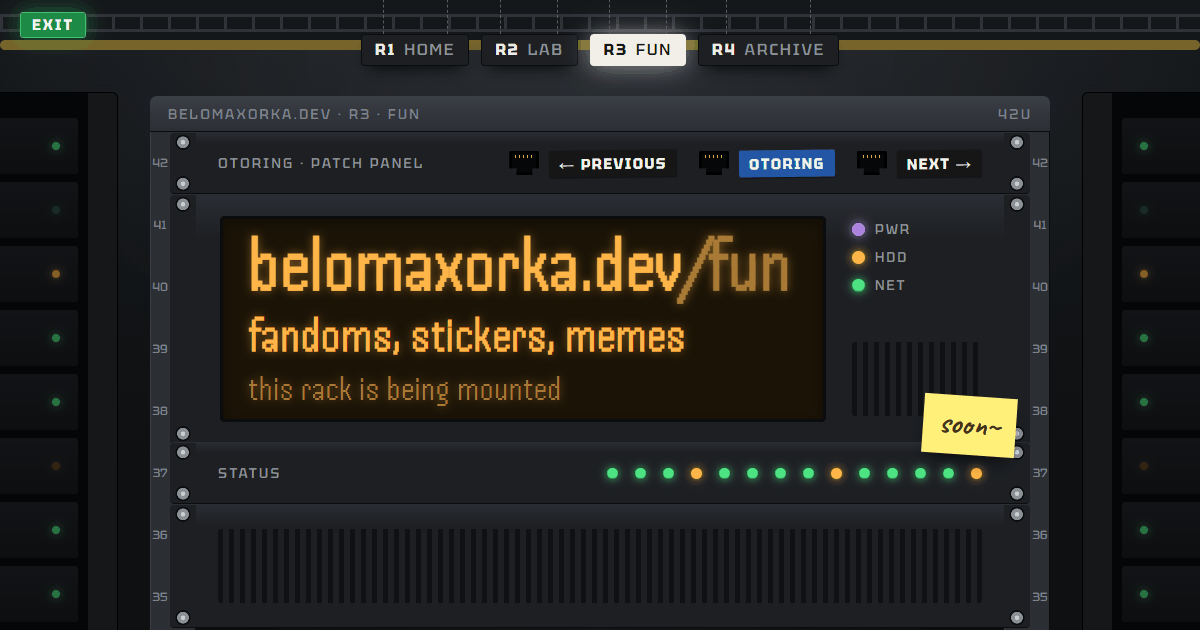
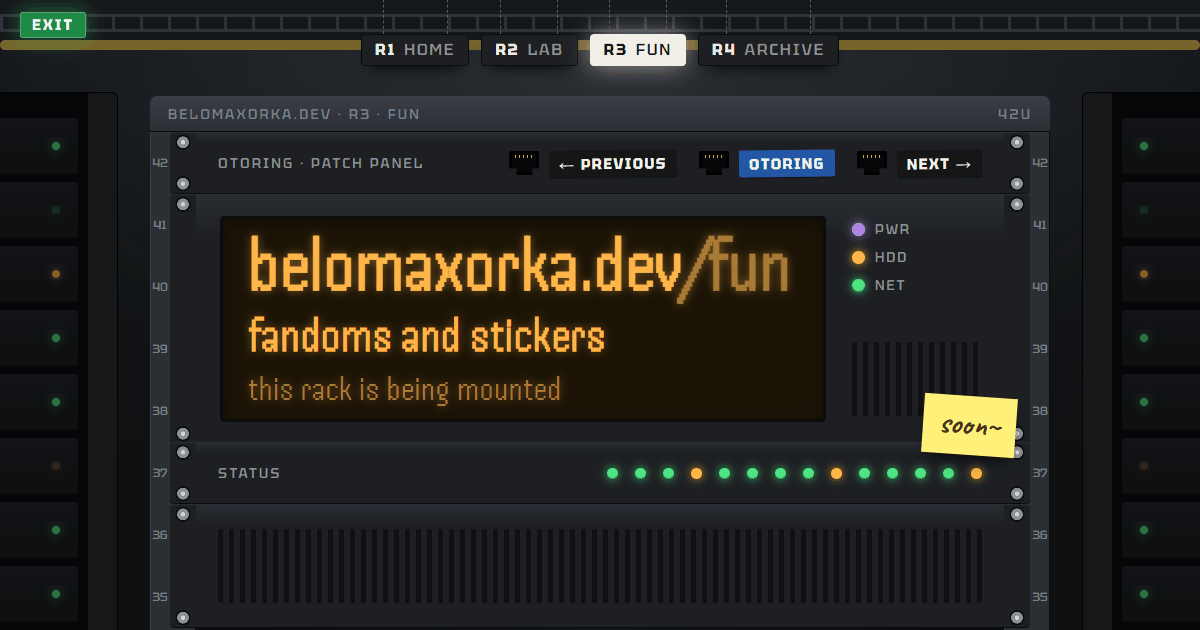
Daylight is the same server room: neighbour racks, ceiling and duct in light colours; two buttons out; /fun is for fandoms
- the light theme was a beige closet without neighbours or ceiling; now it is the night hall with light
  tokens (neighbour rack colours are variables now), so the row of racks and the fibre into the duct
  are there by day too
- cheat_r (links to killmyself.ru) and eversiege (a webcam photo) leave the people wall
- /fun promises a board of fandoms, no memes (Roman's call); OG card regenerated

Changed region(s): [[0.3083, 0.4825, 0.5858, 0.573], [0.0308, 0.0302, 0.0617, 0.0603]]

diff --git a/assets/css/hall.css b/assets/css/hall.css
@@ -6,6 +6,8 @@
   --hall-bg: #0e1012; --hall-wall: #15181b; --tile: #1c1f23; --tile-line: #0a0b0d; --hole-c: #07080a;
   --tray: #3a3e45; --duct: #d8b23a; --lamp: #eaf2ff; --lamp-on: 1; --cold: #3d7bd9; --cold-a: .22;
   --nb-dim: .55;
+  /* Соседние стойки: рельсы, корпус, юниты, заглушки, блик по кромке юнита. */
+  --nb-rail: #2b2e33; --nb-body: #0b0c0e; --nb-edge: #000; --nu-a: #24272c; --nu-b: #1b1d21; --nu-blank: #101113; --nu-hi: #ffffff10;
   position: absolute; inset: 0; z-index: 0; pointer-events: none; overflow: hidden;
   background: linear-gradient(var(--hall-wall), var(--hall-bg) 70%);
   transition: filter .8s, background .8s;
@@ -49,13 +51,13 @@
 .hall .nbr {
   position: relative; height: 100%; border-radius: 6px;
   background:
-    linear-gradient(90deg, #2b2e33 0 34px, transparent 34px calc(100% - 34px), #2b2e33 0),
-    #0b0c0e;
-  box-shadow: inset 0 0 0 1px #000, 0 20px 40px -10px #000;
+    linear-gradient(90deg, var(--nb-rail) 0 34px, transparent 34px calc(100% - 34px), var(--nb-rail) 0),
+    var(--nb-body);
+  box-shadow: inset 0 0 0 1px var(--nb-edge), 0 20px 40px -10px #000;
   display: flex; flex-direction: column; gap: 6px; padding: 30px 40px;
 }
-.hall .nu { flex: 1; max-height: 88px; border-radius: 3px; background: linear-gradient(#24272c, #1b1d21); box-shadow: inset 0 1px 0 #ffffff10; }
-.hall .nu:nth-child(3n) { flex: 2; } .hall .nu:nth-child(5n) { background: #101113; }
+.hall .nu { flex: 1; max-height: 88px; border-radius: 3px; background: linear-gradient(var(--nu-a), var(--nu-b)); box-shadow: inset 0 1px 0 var(--nu-hi); }
+.hall .nu:nth-child(3n) { flex: 2; } .hall .nu:nth-child(5n) { background: var(--nu-blank); }
 .hall .leds {
   position: absolute; inset: 44px 60px; display: grid; grid-template-columns: repeat(2, 10px) 1fr repeat(2, 10px);
   grid-auto-rows: 66px; gap: 0 12px; align-content: start;
@@ -114,14 +116,21 @@
   .hall .floor { height: 110px; }
 }
 
-/* ---------- светлая тема: бежевая кладовка вместо зала ---------- */
+/* ---------- светлая тема: тот же машинный зал днём ----------
+   Ряд стоек, потолок с лотками и жёлтым коробом, фальшпол — как ночью, только светлые (2026-10-11; раньше днём
+   была «бежевая кладовка» без соседей и потолка). Меняются только цвета. */
 @media (prefers-color-scheme: light) {
-  :root:not([data-theme="dark"]) .hall { --hall-bg: #cfc6b2; --hall-wall: #e2dac8; --tile: #b98e5e; --tile-line: #8d6a43; --hole-c: transparent; --tray: #a39b8a; --duct: #c9b98f; --lamp: #fff6dc; --cold-a: 0; --nb-dim: 1; }
+  :root:not([data-theme="dark"]) .hall {
+    --hall-bg: #d3cec3; --hall-wall: #e8e4db; --tile: #d9d4c9; --tile-line: #b9b2a3; --hole-c: #b4ad9e;
+    --tray: #a8a191; --duct: #d9b73f; --lamp: #fffaf0; --cold-a: .12; --nb-dim: .97;
+    --nb-rail: #b8b1a1; --nb-body: #c9c2b2; --nb-edge: #9e9686; --nu-a: #efebe2; --nu-b: #e0d9cb; --nu-blank: #bdb6a6; --nu-hi: #fff9;
+  }
 }
-:root[data-theme="light"] .hall { --hall-bg: #cfc6b2; --hall-wall: #e2dac8; --tile: #b98e5e; --tile-line: #8d6a43; --hole-c: transparent; --tray: #a39b8a; --duct: #c9b98f; --lamp: #fff6dc; --cold-a: 0; --nb-dim: 1; }
-@media (prefers-color-scheme: light) { :root:not([data-theme="dark"]) .hall .nb { display: none; } :root:not([data-theme="dark"]) .hall { background: repeating-linear-gradient(90deg, #0000 0 38px, #00000008 38px 40px), linear-gradient(var(--hall-wall), var(--hall-bg)); } }
-:root[data-theme="light"] .hall .nb { display: none; }
-:root[data-theme="light"] .hall { background: repeating-linear-gradient(90deg, #0000 0 38px, #00000008 38px 40px), linear-gradient(var(--hall-wall), var(--hall-bg)); }
+:root[data-theme="light"] .hall {
+  --hall-bg: #d3cec3; --hall-wall: #e8e4db; --tile: #d9d4c9; --tile-line: #b9b2a3; --hole-c: #b4ad9e;
+  --tray: #a8a191; --duct: #d9b73f; --lamp: #fffaf0; --cold-a: .12; --nb-dim: .97;
+  --nb-rail: #b8b1a1; --nb-body: #c9c2b2; --nb-edge: #9e9686; --nu-a: #efebe2; --nu-b: #e0d9cb; --nu-blank: #bdb6a6; --nu-hi: #fff9;
+}
 
 /* ---------- проход в перспективе: пол и потолок уходят вглубь ---------- */
 .hall .floor { perspective: 420px; }
@@ -146,11 +155,3 @@
   opacity: .9;
 }
 .hall .ceiling .mark { position: absolute; left: 41%; top: calc(var(--k) * 3%); width: 1px; height: 1px; }
-
-/* Светлая тема — кладовка: без потолка с лотками, пол дощатый. */
-@media (prefers-color-scheme: light) {
-  :root:not([data-theme="dark"]) .hall .ceiling .plane { display: none; }
-  :root:not([data-theme="dark"]) .hall .floor::before { background: repeating-linear-gradient(90deg, var(--tile) 0 118px, var(--tile-line) 118px 120px); }
-}
-:root[data-theme="light"] .hall .ceiling .plane { display: none; }
-:root[data-theme="light"] .hall .floor::before { background: repeating-linear-gradient(90deg, var(--tile) 0 118px, var(--tile-line) 118px 120px); }
